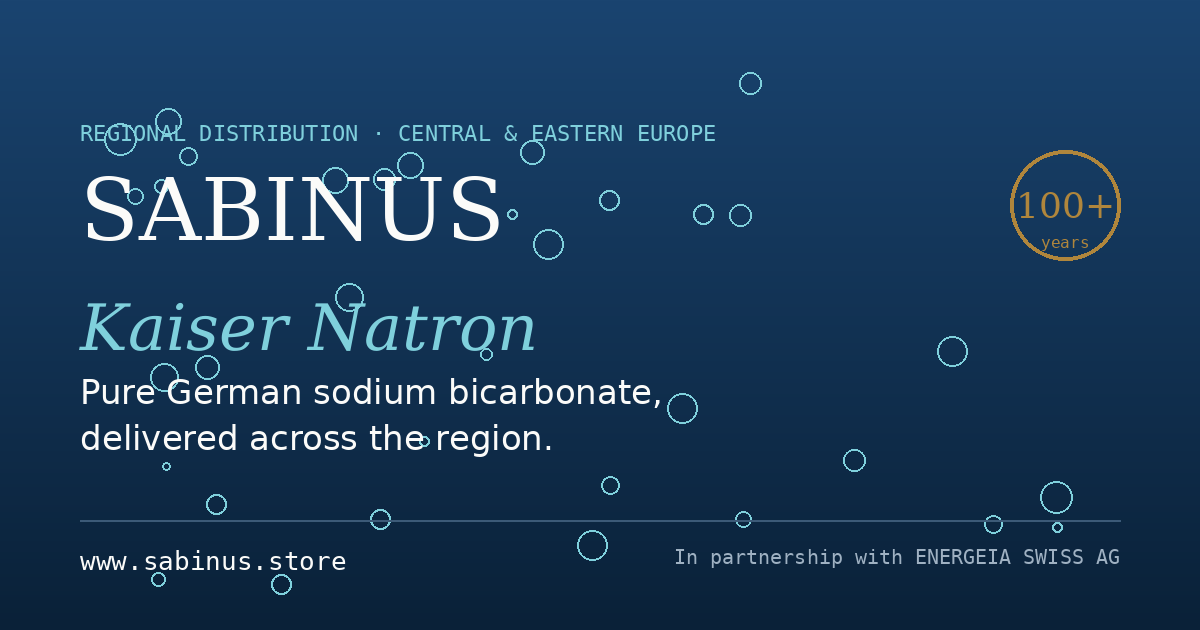
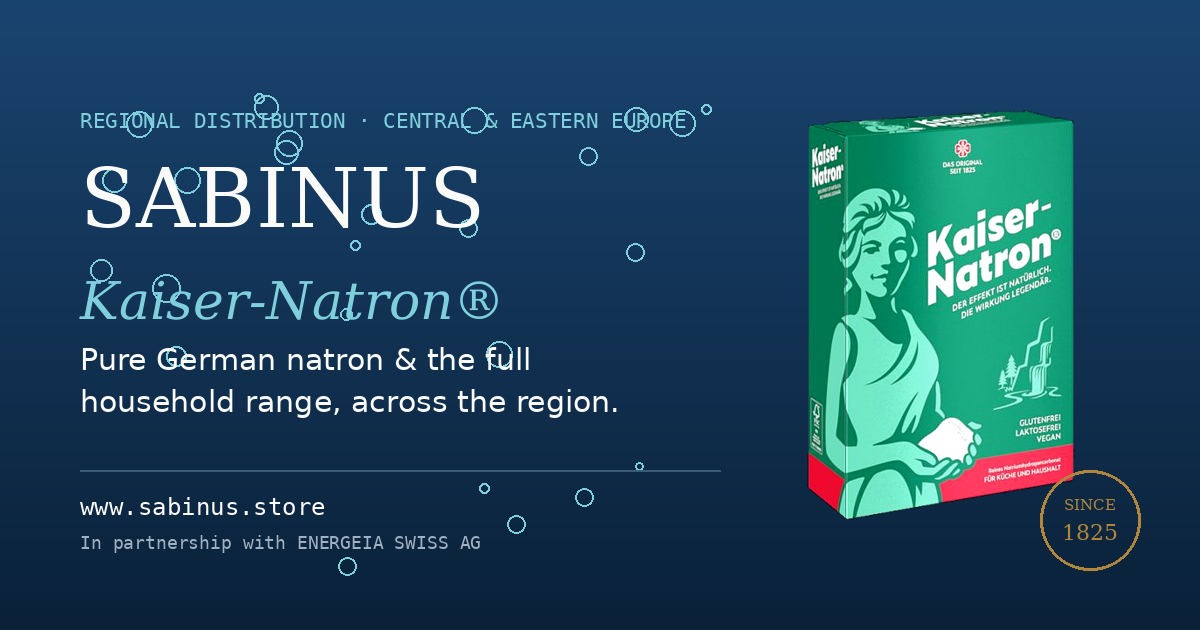
Add files via upload
Adding real Kaiser-Natron product range + images

diff --git a/index.html b/index.html
@@ -5,9 +5,9 @@
   <meta name="viewport" content="width=device-width, initial-scale=1.0" />
 
   <!-- ============ PRIMARY SEO ============ -->
-  <title>SABINUS s.r.o. — Kaiser Natron Distributor for Central &amp; Eastern Europe</title>
-  <meta name="description" content="SABINUS s.r.o. is the Central & Eastern European distributor of Kaiser Natron — pure, German-made sodium bicarbonate (baking soda). In partnership with ENERGEIA SWISS AG. Wholesale and retail enquiries welcome." />
-  <meta name="keywords" content="Kaiser Natron, sodium bicarbonate, baking soda distributor, natron Slovakia, SABINUS, Kaiser Natron Europe, bicarbonate wholesale, natron Eastern Europe" />
+  <title>SABINUS s.r.o. — Kaiser-Natron® Distributor for Central &amp; Eastern Europe</title>
+  <meta name="description" content="SABINUS s.r.o. is the Central & Eastern European distributor of Kaiser-Natron® — pure German sodium bicarbonate (baking soda) and the full household, cleaning, laundry and care range. In partnership with ENERGEIA SWISS AG. Wholesale and retail enquiries welcome." />
+  <meta name="keywords" content="Kaiser-Natron, Kaiser Natron, sodium bicarbonate, baking soda distributor, natron Slovakia, SABINUS, Kaiser Natron Europe, bicarbonate wholesale, natron Eastern Europe, HOLSTE" />
   <meta name="author" content="SABINUS s.r.o." />
   <meta name="robots" content="index, follow" />
   <link rel="canonical" href="https://www.sabinus.store/" />
@@ -16,7 +16,7 @@
   <!-- ============ OPEN GRAPH / SOCIAL ============ -->
   <meta property="og:type" content="website" />
   <meta property="og:site_name" content="SABINUS s.r.o." />
-  <meta property="og:title" content="SABINUS — Kaiser Natron Distribution for Central &amp; Eastern Europe" />
+  <meta property="og:title" content="SABINUS — Kaiser-Natron® Distribution for Central &amp; Eastern Europe" />
   <meta property="og:description" content="Pure German sodium bicarbonate, delivered across the region. Wholesale & retail enquiries welcome." />
   <meta property="og:url" content="https://www.sabinus.store/" />
   <meta property="og:image" content="https://www.sabinus.store/assets/img/og-image.png" />
@@ -24,7 +24,7 @@
   <meta property="og:image:height" content="630" />
   <meta property="og:locale" content="en" />
   <meta name="twitter:card" content="summary_large_image" />
-  <meta name="twitter:title" content="SABINUS — Kaiser Natron Distribution" />
+  <meta name="twitter:title" content="SABINUS — Kaiser-Natron® Distribution" />
   <meta name="twitter:description" content="Pure German sodium bicarbonate, delivered across Central & Eastern Europe." />
   <meta name="twitter:image" content="https://www.sabinus.store/assets/img/og-image.png" />
 
@@ -47,7 +47,7 @@
         "url": "https://www.sabinus.store/",
         "logo": "https://www.sabinus.store/assets/img/favicon.svg",
         "image": "https://www.sabinus.store/assets/img/og-image.png",
-        "description": "Central & Eastern European distributor of Kaiser Natron pure sodium bicarbonate, in partnership with ENERGEIA SWISS AG.",
+        "description": "Central & Eastern European distributor of Kaiser-Natron® pure sodium bicarbonate, in partnership with ENERGEIA SWISS AG.",
         "email": "[email redacted]",
         "telephone": "[phone redacted]",
         "vatID": "SK2121572288",
@@ -73,8 +73,8 @@
       },
       {
         "@type": "Product",
-        "name": "Kaiser Natron — Pure Sodium Bicarbonate",
-        "brand": { "@type": "Brand", "name": "Kaiser Natron" },
+        "name": "Kaiser-Natron® — Pure Sodium Bicarbonate",
+        "brand": { "@type": "Brand", "name": "Kaiser-Natron" },
         "category": "Sodium bicarbonate / baking soda",
         "material": "Sodium bicarbonate (NaHCO₃)",
         "countryOfOrigin": "DE",
@@ -100,7 +100,7 @@
       <ul class="nav-links" id="menu">
         <li><a href="#company">Company</a></li>
         <li><a href="#portfolio">Portfolio</a></li>
-        <li><a href="#product">Kaiser Natron</a></li>
+        <li><a href="#product">Kaiser-Natron®</a></li>
         <li><a href="#partner">Partners</a></li>
         <li><a href="#news">News</a></li>
         <li class="nav-cta"><a class="btn btn-primary" href="#contact">Contact</a></li>
@@ -115,13 +115,13 @@
         <div class="hero-copy reveal">
           <p class="eyebrow">Regional distribution · Central &amp; Eastern Europe</p>
           <h1>Pure German <em>natron</em>, delivered across the region.</h1>
-          <p class="lede">SABINUS s.r.o. brings <strong>Kaiser Natron</strong> — pure, time-tested sodium bicarbonate — to retailers, wholesalers and households throughout Central &amp; Eastern Europe, in partnership with ENERGEIA SWISS AG.</p>
+          <p class="lede">SABINUS s.r.o. brings <strong>Kaiser-Natron®</strong> — pure, time-tested sodium bicarbonate and its full household range — to retailers, wholesalers and households throughout Central &amp; Eastern Europe, in partnership with ENERGEIA SWISS AG.</p>
           <div class="hero-actions">
-            <a class="btn btn-primary" href="#product">Explore the product <span class="arr">→</span></a>
+            <a class="btn btn-primary" href="#portfolio">See the range <span class="arr">→</span></a>
             <a class="btn btn-ghost" href="#partner">Become a stockist</a>
           </div>
           <div class="hero-meta">
-            <div><b>100+ years</b>a household icon</div>
+            <div><b>Since 1825</b>the original natron</div>
             <div><b>8 markets</b>served &amp; growing</div>
             <div><b>NaHCO₃</b>one pure ingredient</div>
           </div>
@@ -130,12 +130,12 @@
         <div class="hero-visual reveal">
           <div class="hero-card">
             <div class="bubbles" aria-hidden="true"></div>
-            <img class="product-svg" src="assets/img/product-pack.svg" alt="Kaiser Natron pure sodium bicarbonate — illustrative pack" />
+            <img class="product-svg" src="assets/img/products/powder-box.png" alt="Kaiser-Natron® pure sodium bicarbonate powder carton" />
             <svg class="hero-seal" viewBox="0 0 92 92" aria-hidden="true">
               <circle cx="46" cy="46" r="44" fill="none" stroke="#B0863C" stroke-width="2"/>
               <circle cx="46" cy="46" r="37" fill="none" stroke="#B0863C" stroke-width="1" opacity=".6"/>
-              <text x="46" y="42" text-anchor="middle" font-family="Fraunces, serif" font-size="22" fill="#B0863C">100+</text>
-              <text x="46" y="60" text-anchor="middle" font-family="monospace" font-size="9" fill="#B0863C" letter-spacing="2">YEARS</text>
+              <text x="46" y="40" text-anchor="middle" font-family="Fraunces, serif" font-size="15" fill="#B0863C">SINCE</text>
+              <text x="46" y="60" text-anchor="middle" font-family="Fraunces, serif" font-size="20" fill="#B0863C">1825</text>
             </svg>
           </div>
         </div>
@@ -148,7 +148,7 @@
         <div class="item"><svg viewBox="0 0 24 24" fill="none" stroke="currentColor" stroke-width="1.8"><path d="M12 2 4 6v6c0 4.4 3.4 8.5 8 10 4.6-1.5 8-5.6 8-10V6l-8-4Z"/></svg><span><b>Made in Germany</b> — pure sodium bicarbonate</span></div>
         <div class="item"><svg viewBox="0 0 24 24" fill="none" stroke="currentColor" stroke-width="1.8"><circle cx="12" cy="12" r="9"/><path d="M8 12l3 3 5-6"/></svg><span><b>ENERGEIA SWISS AG</b> partner</span></div>
         <div class="item"><svg viewBox="0 0 24 24" fill="none" stroke="currentColor" stroke-width="1.8"><path d="M3 7h13l4 4v6h-3"/><circle cx="7" cy="18" r="2"/><circle cx="17" cy="18" r="2"/></svg><span><b>Regional logistics</b> from Bratislava</span></div>
-        <div class="item"><svg viewBox="0 0 24 24" fill="none" stroke="currentColor" stroke-width="1.8"><path d="M12 3v18M5 8l7-5 7 5"/></svg><span><b>Growing portfolio</b> — more groups coming</span></div>
+        <div class="item"><svg viewBox="0 0 24 24" fill="none" stroke="currentColor" stroke-width="1.8"><path d="M12 3v18M5 8l7-5 7 5"/></svg><span><b>Full range</b> — kitchen, home &amp; care</span></div>
       </div>
     </section>
 
@@ -162,8 +162,8 @@
         <div class="grid">
           <div class="reveal">
             <p class="lede">SABINUS s.r.o. is a Slovak distribution company based in Bratislava. We exist to do one thing well: make a trusted product easy to find, buy and re-stock across Central &amp; Eastern Europe.</p>
-            <p>Our first brand is <strong>Kaiser Natron</strong>, the pure sodium-bicarbonate product that German and Central-European households have relied on for over a century. Working in partnership with <strong>ENERGEIA SWISS AG</strong>, we handle import, regional logistics and retailer support so that shops, pharmacies, wholesalers and online sellers across the region have a single, dependable point of contact.</p>
-            <p>We are starting with one product on purpose. A narrow focus keeps availability high, lead times short and service personal. As demand grows, the catalogue will grow with it — additional product groups are already on the roadmap.</p>
+            <p>Our brand is <strong>Kaiser-Natron®</strong>, the pure sodium-bicarbonate range that German and Central-European households have relied on since 1825. Working in partnership with <strong>ENERGEIA SWISS AG</strong>, we handle import, regional logistics and retailer support so that shops, pharmacies, wholesalers and online sellers across the region have a single, dependable point of contact.</p>
+            <p>From the original pure natron to a full household, cleaning, laundry and care range, we keep stock close and re-orders simple — so the products are always on the shelf when shoppers reach for them.</p>
 
             <figure class="region">
               <img src="assets/img/region-map.svg" alt="Distribution network across Central & Eastern Europe with Slovakia as the hub" loading="lazy" />
@@ -175,7 +175,7 @@
             <p class="role">Leadership</p>
             <p class="name">Adolf Goldmann</p>
             <p class="muted" style="margin-top:-6px;font-size:14px;">Chief Executive Officer, SABINUS s.r.o.</p>
-            <p style="font-size:15px;">“We picked a product with a hundred-year reputation and built a distribution operation worthy of it. Our promise to partners is simple — reliable stock, honest information and a name you can reach.”</p>
+            <p style="font-size:15px;">“We took on a brand with a two-hundred-year reputation and built a distribution operation worthy of it. Our promise to partners is simple — reliable stock, honest information and a name you can reach.”</p>
             <hr />
             <div class="factline"><span>Founded / seat</span><span>Bratislava, SK</span></div>
             <div class="factline"><span>Focus</span><span>FMCG distribution</span></div>
@@ -191,34 +191,82 @@
       <div class="wrap">
         <div class="sec-head reveal">
           <p class="eyebrow">Product portfolio</p>
-          <h2>One product today. A portfolio in the making.</h2>
-          <p class="lede">The range opens with Kaiser Natron and is designed to expand into adjacent household, care and food-grade groups.</p>
+          <h2>The Kaiser-Natron® range</h2>
+          <p class="lede">It begins with the pure natron that has been a household name since 1825 — and extends across cleaning, laundry and care.</p>
         </div>
+
+        <!-- Featured: powder -->
+        <article class="feature reveal">
+          <div class="feature-img"><img src="assets/img/products/powder-box.png" alt="Kaiser-Natron® pure sodium bicarbonate powder carton" loading="lazy"></div>
+          <div class="feature-copy">
+            <span class="tag">The original</span>
+            <h3>Kaiser-Natron® Powder</h3>
+            <p>100% pure sodium bicarbonate (NaHCO₃) and nothing else — the versatile classic for baking, gentle cleaning, neutralising odours and softening water. Gluten-free, lactose-free and vegan, available in single sachets and the classic carton.</p>
+            <div class="databar">
+              <span class="chip"><b>Formula</b> NaHCO₃</span>
+              <span class="chip"><b>Purity</b> 100%</span>
+              <span class="chip"><b>Origin</b> Germany</span>
+            </div>
+            <a class="btn btn-primary" href="#product">Product details <span class="arr">→</span></a>
+          </div>
+        </article>
+
+        <!-- Category: Kitchen -->
+        <div class="cat-head reveal"><span class="cat-label">Kitchen</span></div>
         <div class="cards">
           <article class="pcard live reveal">
-            <div class="thumb"><img src="assets/img/product-pack.svg" alt="Kaiser Natron pack" loading="lazy" style="width:62%"></div>
-            <span class="tag">Available now</span>
-            <h3>Kaiser Natron</h3>
-            <p>Pure sodium bicarbonate (NaHCO₃). The versatile, German-made household classic — for baking, cleaning, freshening and care.</p>
-            <a class="more" href="#product">Product details →</a>
-          </article>
-
-          <article class="pcard soon reveal">
-            <div class="thumb"><img src="assets/img/placeholder.svg" alt="Future product group" loading="lazy"></div>
-            <span class="tag soon">Roadmap</span>
-            <h3>Household care</h3>
-            <p>Complementary natural cleaning and freshening lines to sit alongside natron on the shelf.</p>
-            <span class="more">Coming soon</span>
-          </article>
-
-          <article class="pcard soon reveal">
-            <div class="thumb"><img src="assets/img/placeholder.svg" alt="Future product group" loading="lazy"></div>
-            <span class="tag soon">Roadmap</span>
-            <h3>Food &amp; bakery grade</h3>
-            <p>Pack formats and grades aimed at bakeries, food producers and HoReCa buyers across the region.</p>
-            <span class="more">Coming soon</span>
+            <div class="thumb"><img src="assets/img/products/tablets.png" alt="Kaiser-Natron® Tablets" loading="lazy"></div>
+            <h3>Tablets</h3>
+            <p>The same pure natron, pre-measured. Convenient tablets for kitchen and household, with no additives.</p>
           </article>
         </div>
+
+        <!-- Category: Cleaning -->
+        <div class="cat-head reveal"><span class="cat-label">Household · Cleaning</span></div>
+        <div class="cards">
+          <article class="pcard live reveal">
+            <div class="thumb"><img src="assets/img/products/dish-soap.png" alt="Kaiser-Natron® Dish Soap" loading="lazy"></div>
+            <h3>Dish Soap</h3>
+            <p>A mild yet powerful washing-up liquid with a fresh grapefruit scent. Cuts grease, kind to hands. Microplastic-free.</p>
+          </article>
+          <article class="pcard live reveal">
+            <div class="thumb"><img src="assets/img/products/all-purpose-spray.png" alt="Kaiser-Natron® All-Purpose Spray" loading="lazy"></div>
+            <h3>All-Purpose Spray</h3>
+            <p>Pure natron with HOLSTE washing soda for a streak-free shine on tiles, fittings and furniture. Microplastic-free.</p>
+          </article>
+          <article class="pcard live reveal">
+            <div class="thumb"><img src="assets/img/products/all-purpose-cleaner.png" alt="Kaiser-Natron® All-Purpose Cleaner" loading="lazy"></div>
+            <h3>All-Purpose Cleaner</h3>
+            <p>A versatile natron-powered cleaner with a fresh grapefruit scent, for floors and surfaces. Microplastic-free.</p>
+          </article>
+        </div>
+
+        <!-- Category: Laundry -->
+        <div class="cat-head reveal"><span class="cat-label">Household · Laundry</span></div>
+        <div class="cards">
+          <article class="pcard live reveal">
+            <div class="thumb"><img src="assets/img/products/down-wash.png" alt="Kaiser-Natron® Down Wash" loading="lazy"></div>
+            <h3>Down Wash</h3>
+            <p>A specialist detergent for down- and feather-filled items, with nourishing lanolin to keep filling soft and lofty.</p>
+          </article>
+        </div>
+
+        <!-- Category: Care -->
+        <div class="cat-head reveal"><span class="cat-label">Care</span></div>
+        <div class="cards">
+          <article class="pcard live reveal">
+            <div class="thumb"><img src="assets/img/products/bath-soak.png" alt="Kaiser-Natron® Bath Soak" loading="lazy"></div>
+            <h3>Bath Soak</h3>
+            <p>A natron bath additive with a fresh citrus note for a wonderfully soothing, refreshing bath.</p>
+          </article>
+          <article class="pcard live reveal">
+            <div class="thumb"><img src="assets/img/products/foot-bath.png" alt="Kaiser-Natron® Foot Bath" loading="lazy"></div>
+            <h3>Foot Bath</h3>
+            <p>A natron foot-bath soak with herbal notes — soothing and refreshing for tired feet.</p>
+          </article>
+        </div>
+
+        <p class="note" style="color:#9fb1c2;margin-top:30px">Product availability and pack formats vary by market. Contact us for the current range and wholesale terms in your country.</p>
       </div>
     </section>
 
@@ -227,7 +275,7 @@
       <div class="wrap">
         <div class="grid">
           <figure class="product-figure reveal">
-            <div class="frame"><img src="assets/img/product-pack.svg" alt="Kaiser Natron pure sodium bicarbonate" loading="lazy" style="width:78%"></div>
+            <div class="frame"><img src="assets/img/products/powder-box.png" alt="Kaiser-Natron® pure sodium bicarbonate" loading="lazy" style="width:70%"></div>
             <div class="databar">
               <span class="chip"><b>Formula</b> NaHCO₃</span>
               <span class="chip"><b>CAS</b> 144-55-8</span>
@@ -237,10 +285,10 @@
           </figure>
 
           <div class="reveal">
-            <p class="eyebrow">The product</p>
-            <h2>Kaiser Natron — one ingredient, countless uses</h2>
-            <p class="lede">Kaiser Natron is pure sodium bicarbonate, better known as baking soda or bicarbonate of soda. It has been a fixture of Central-European kitchens and cupboards for more than a hundred years.</p>
-            <p>Chemically, it is mildly alkaline: it binds and neutralises acids, turning them into neutral salts and gentle carbonic acid. That single, simple property is what makes it so useful in the kitchen, around the home and in everyday personal care. One ingredient, no additives — just sodium bicarbonate.</p>
+            <p class="eyebrow">The original</p>
+            <h2>Kaiser-Natron® — one ingredient, countless uses</h2>
+            <p class="lede">Kaiser-Natron® is pure sodium bicarbonate, better known as baking soda or bicarbonate of soda. It has been a fixture of Central-European kitchens and cupboards since 1825.</p>
+            <p>Chemically, it is mildly alkaline: it binds and neutralises acids, turning them into neutral salts and gentle carbonic acid. That single, simple property is what makes it so useful in the kitchen, around the home and in everyday care. One ingredient, no additives — and it is gluten-free, lactose-free and vegan.</p>
             <p>For SABINUS partners, it is an easy product to stock: a recognised name, a long shelf life, stable demand and a story shoppers already trust.</p>
             <a class="btn btn-primary" href="#contact">Request wholesale terms <span class="arr">→</span></a>
           </div>
@@ -273,7 +321,7 @@
         <div class="grid">
           <div class="reveal">
             <p class="eyebrow">For retailers &amp; wholesalers</p>
-            <h2>Stock Kaiser Natron with one partner</h2>
+            <h2>Stock Kaiser-Natron® with one partner</h2>
             <p class="lede">Whether you run a single shop, a pharmacy chain, a wholesale operation or an online store, SABINUS gives you a single, reliable source for the region.</p>
             <p>We carry the import and compliance load and keep regional stock close, so your re-orders are simple and fast. As our portfolio expands, you will be first to hear.</p>
             <a class="btn btn-primary" href="#contact">Talk to us <span class="arr">→</span></a>
@@ -301,7 +349,7 @@
             <div class="cover"><img src="assets/img/placeholder.svg" alt="" loading="lazy"></div>
             <div class="body">
               <div class="meta"><span class="cat">Company</span><span>June 2026</span></div>
-              <h3>SABINUS opens Kaiser Natron distribution across CEE</h3>
+              <h3>SABINUS opens Kaiser-Natron® distribution across CEE</h3>
               <p>We are now supplying retailers and wholesalers in eight markets, with Bratislava as our regional hub. Here is what partners can expect.</p>
               <a class="more" href="#contact">Read more →</a>
             </div>
@@ -364,7 +412,7 @@
   <footer class="site-footer">
     <div class="wrap">
       <a class="brand" href="#top"><img class="mark" src="assets/img/favicon.svg" alt="" width="28" height="28"><span>SABINUS<small>s.r.o.</small></span></a>
-      <p class="legal">SABINUS s.r.o., Komárnická 36, 821 02 Bratislava – Ružinov, Slovakia · IČO 53773241 · DIČ 2121572288 · IČ DPH SK2121572288. Kaiser Natron® is a trademark of its respective owner; distributed by SABINUS s.r.o. in partnership with ENERGEIA SWISS AG.</p>
+      <p class="legal">SABINUS s.r.o., Komárnická 36, 821 02 Bratislava – Ružinov, Slovakia · IČO 53773241 · DIČ 2121572288 · IČ DPH SK2121572288. Kaiser-Natron® is a trademark of its respective owner; distributed by SABINUS s.r.o. in partnership with ENERGEIA SWISS AG.</p>
     </div>
     <div class="foot-bottom">
       <div class="wrap">

diff --git a/assets/css/styles.css b/assets/css/styles.css
@@ -340,3 +340,39 @@ p { margin: 0 0 1em; }
 .reveal { opacity: 0; transform: translateY(18px); transition: opacity .6s ease, transform .6s ease; }
 .reveal.in { opacity: 1; transform: none; }
 @media (prefers-reduced-motion: reduce){ .reveal { opacity: 1; transform: none; } }
+
+/* =====================================================================
+   PRODUCT CATALOGUE (portfolio) — real product range
+   ===================================================================== */
+/* hero + deep-dive now hold portrait product PNGs */
+.hero-card .product-svg { width: auto; max-width: 70%; max-height: 80%; filter: drop-shadow(0 26px 30px rgba(0,0,0,.4)); }
+.product-figure .frame img { width: auto; max-width: 72%; max-height: 82%; filter: drop-shadow(0 18px 26px rgba(15,44,77,.16)); }
+
+/* featured product (powder) */
+.feature {
+  display: grid; grid-template-columns: .82fr 1.18fr; gap: clamp(22px, 4vw, 50px);
+  align-items: center; background: var(--powder); color: var(--ink);
+  border-radius: var(--radius); padding: clamp(22px, 3vw, 40px);
+  box-shadow: var(--shadow); margin-bottom: 8px;
+}
+.feature-img { display: grid; place-items: center; }
+.feature-img img { max-height: 340px; width: auto; max-width: 100%; filter: drop-shadow(0 22px 28px rgba(15,44,77,.2)); }
+.feature-copy .tag { font-family: var(--mono); font-size: 11px; letter-spacing: .16em; text-transform: uppercase; color: var(--teal-dk); }
+.feature-copy h3 { color: var(--ink); font-size: clamp(23px, 3vw, 30px); margin: 6px 0 10px; }
+.feature-copy p { color: var(--slate); font-size: 15.5px; }
+.feature-copy .databar { margin: 6px 0 20px; }
+@media (max-width: 760px) { .feature { grid-template-columns: 1fr; text-align: left; } .feature-img img { max-height: 240px; } }
+
+/* category headings inside the dark portfolio section */
+.cat-head { margin-top: 38px; padding-top: 18px; border-top: 1px solid rgba(255,255,255,.14); }
+.cat-label { font-family: var(--mono); font-size: 12px; letter-spacing: .2em; text-transform: uppercase; color: #7fd0dc; }
+
+/* catalogue grid: consistent card sizes, left-aligned, no lonely stretching */
+.portfolio .cards { grid-template-columns: repeat(auto-fill, minmax(min(100%, 240px), 300px)); margin-top: 14px; }
+
+/* product cards: transparent PNG on a clean white tile */
+.portfolio .pcard.live { padding: 16px; }
+.portfolio .pcard.live .thumb { aspect-ratio: 1 / 1; background: #fff; margin-bottom: 14px; }
+.portfolio .pcard.live .thumb img { max-height: 86%; max-width: 80%; width: auto; object-fit: contain; }
+.portfolio .pcard.live h3 { font-size: 18px; margin: 2px 0 6px; }
+.portfolio .pcard.live p { font-size: 14px; margin: 0; }